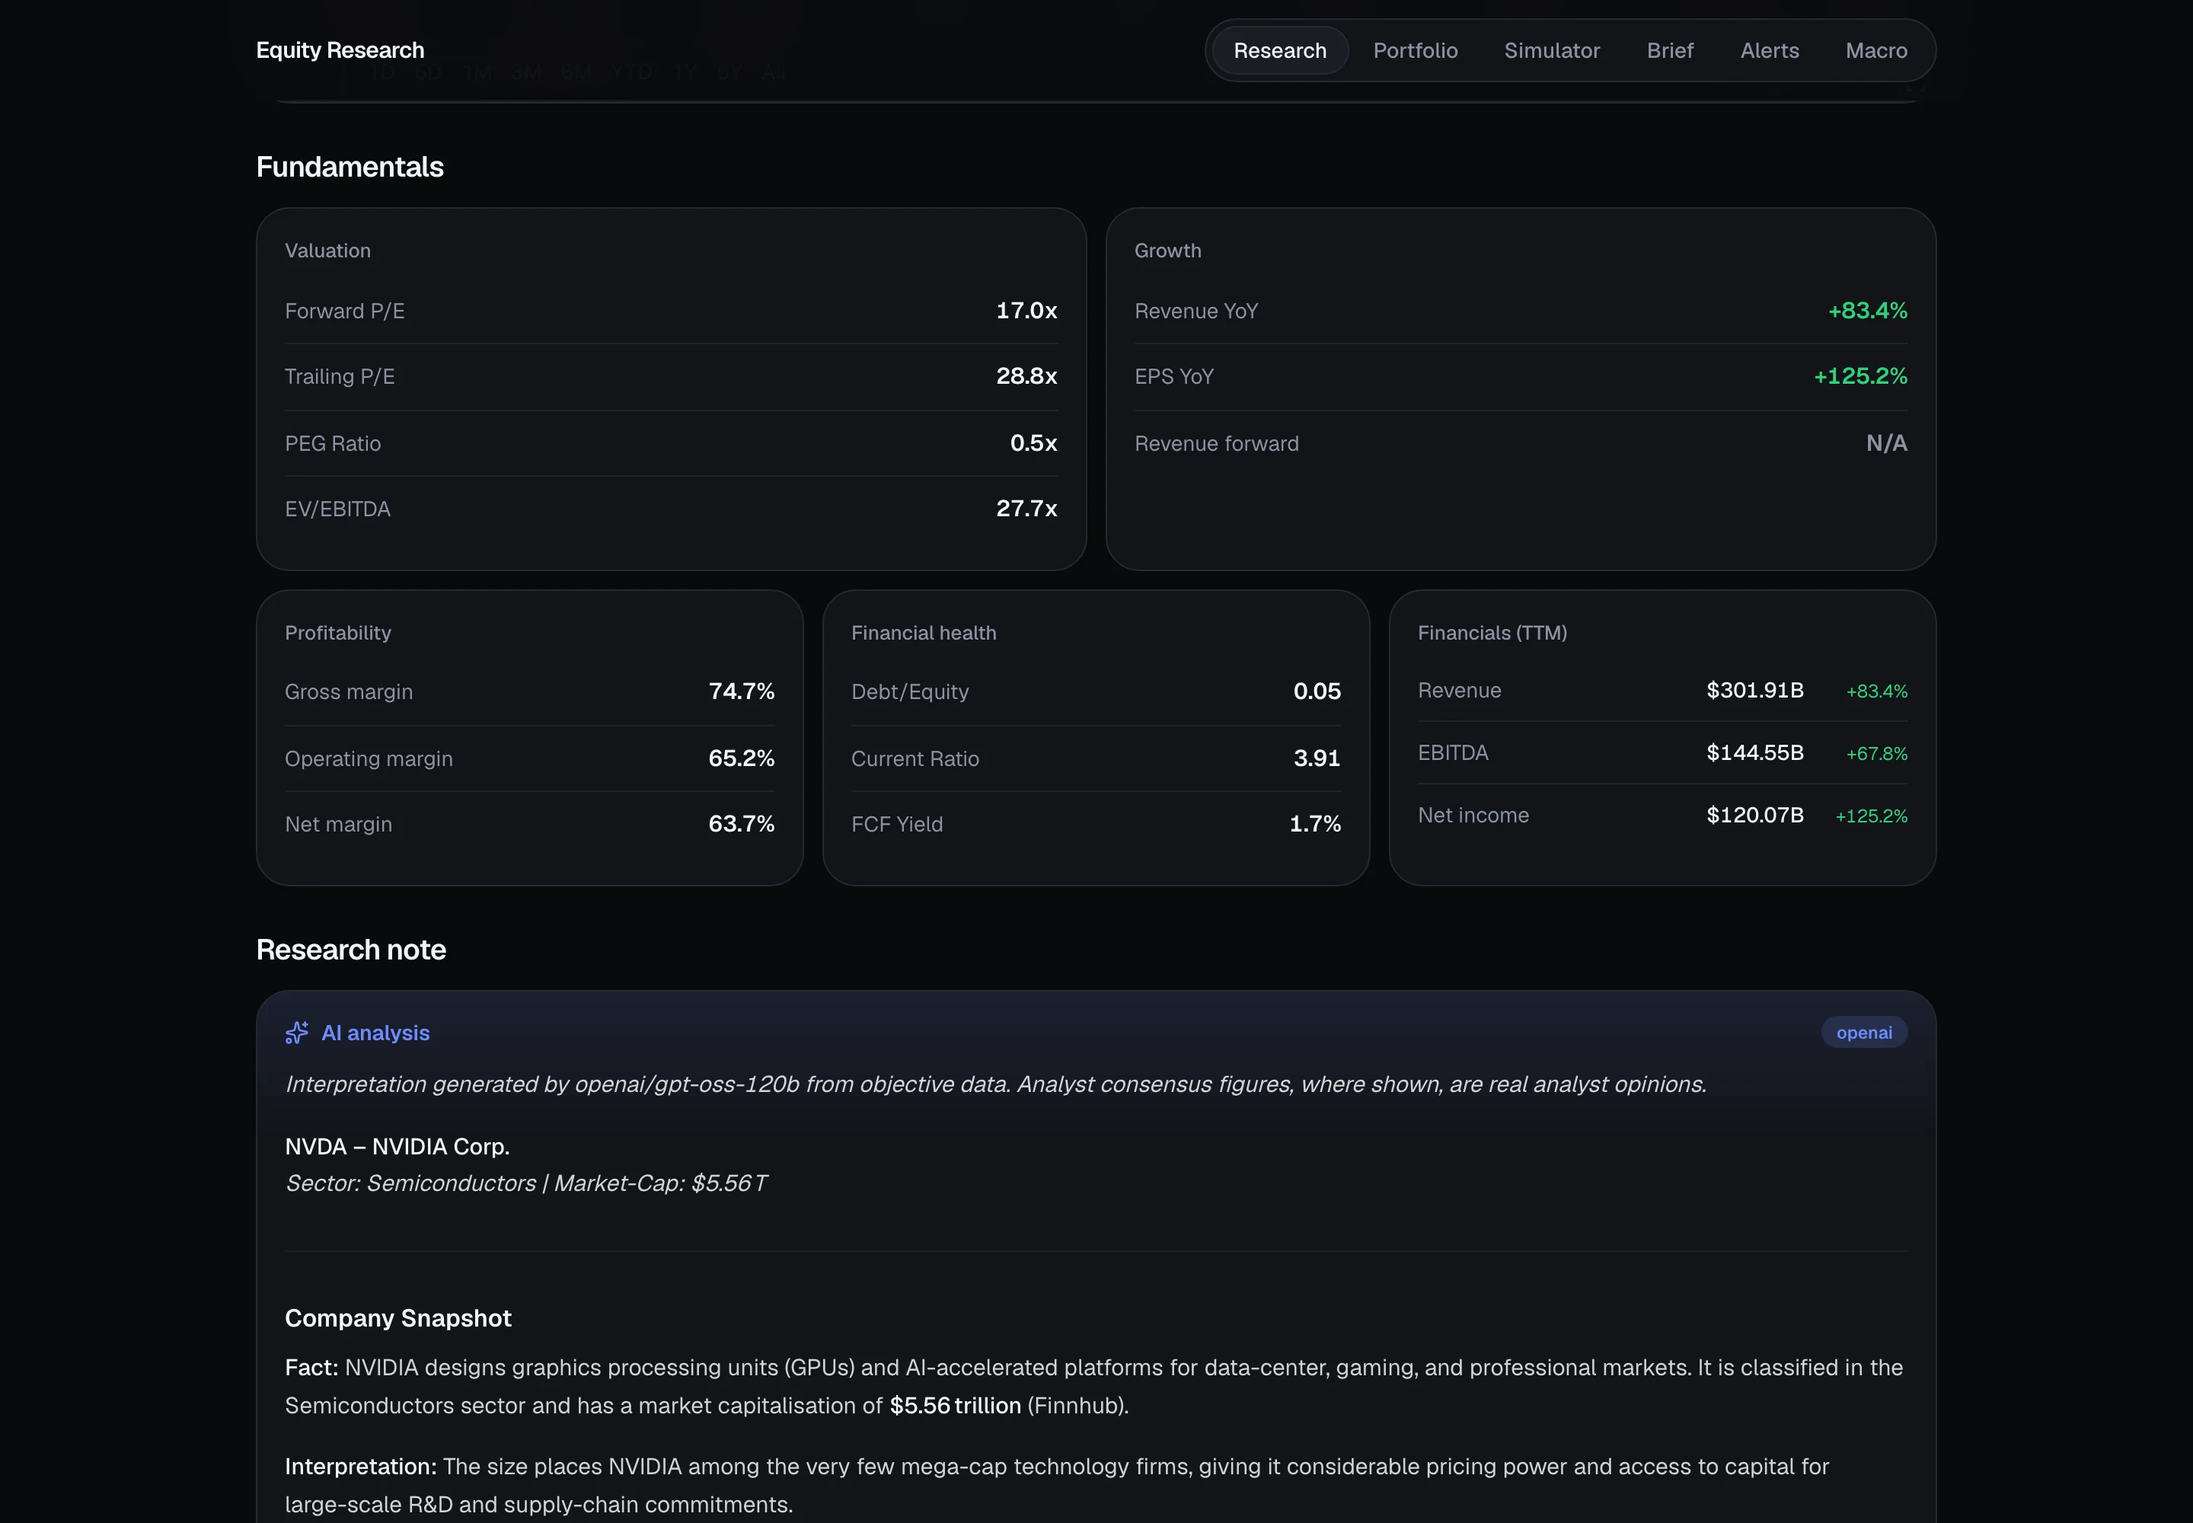
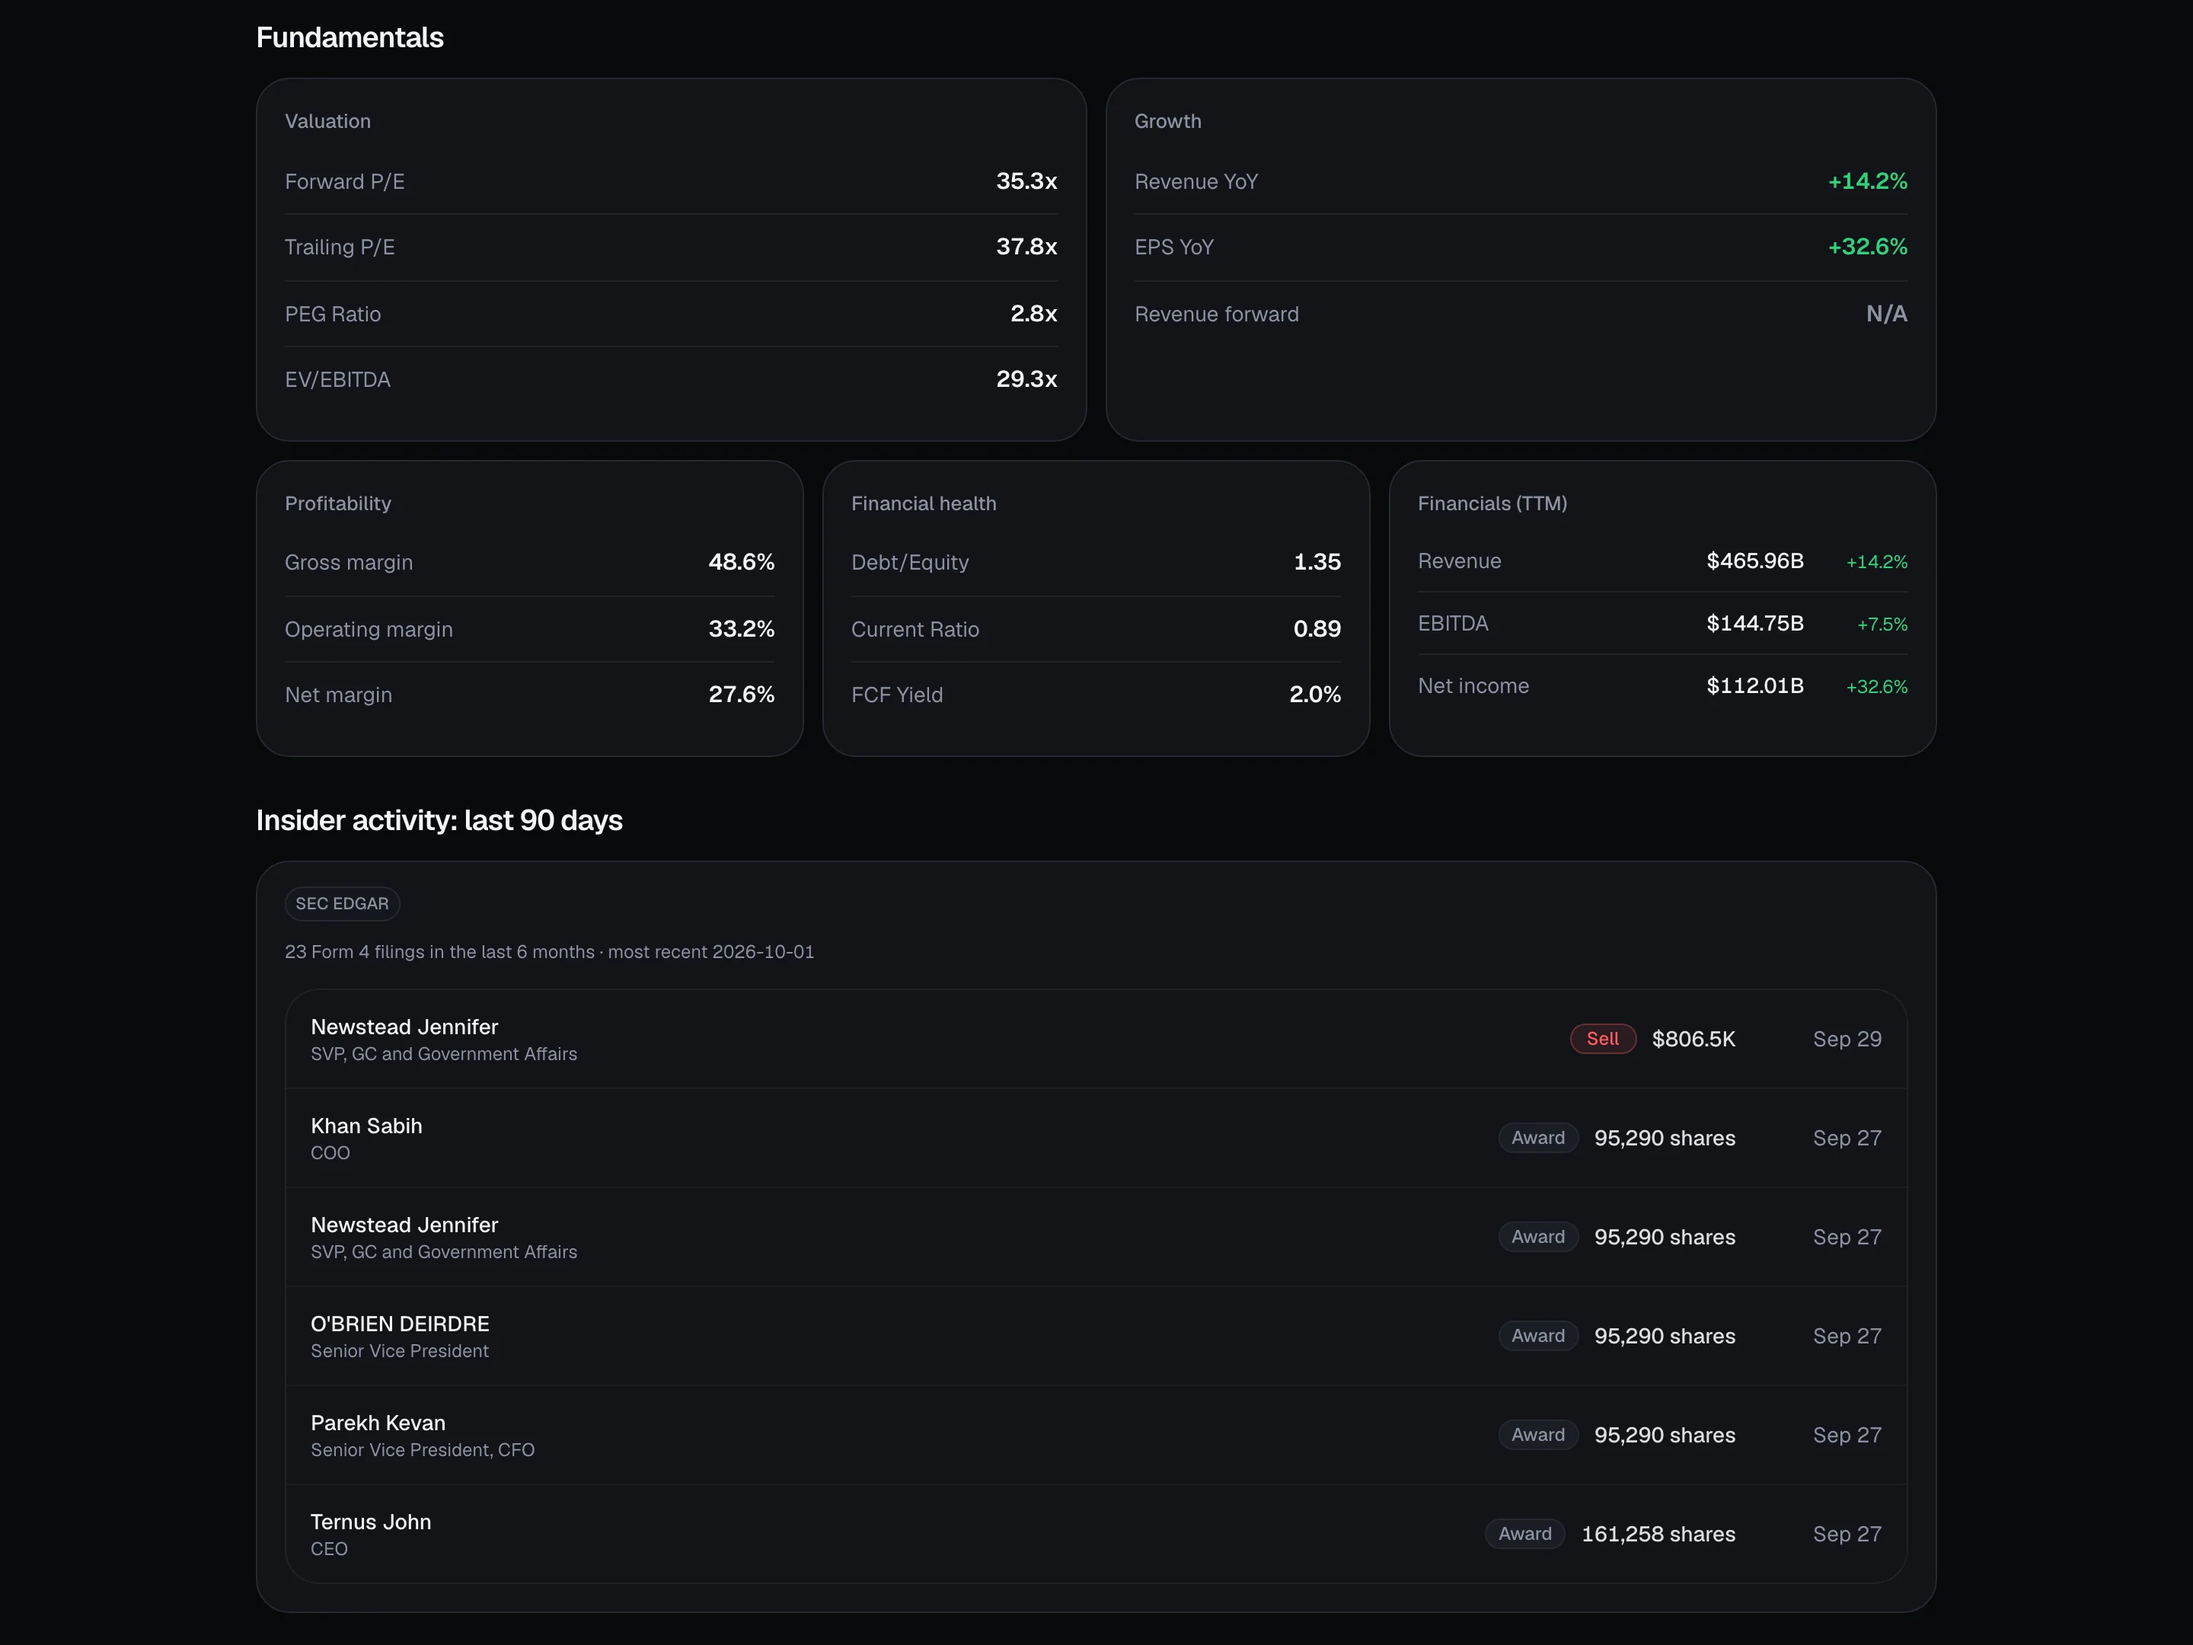
Research screenshots: AAPL with fundamentals and insider activity; README update

diff --git a/equity-research.html b/equity-research.html
@@ -98,7 +98,7 @@
     <h1 class="rise" style="--i:1">An equity research tool I built for <span>my own investing.</span></h1>
     <p class="lede rise" style="--i:2">I wanted proper research on the stocks I hold without paying for a terminal, so I built it on free, official data: SEC filings, FRED and reported financials.</p>
     <div class="term" aria-hidden="true">
-      <span style="animation-delay:.05s">$ research NVDA</span>
+      <span style="animation-delay:.05s">$ research AAPL</span>
       <span style="animation-delay:.42s"><b>prices</b> yfinance</span>
       <span style="animation-delay:.66s"><b>fundamentals</b> Finnhub</span>
       <span style="animation-delay:.9s"><b>filings</b> SEC&nbsp;EDGAR <i>✓</i></span>
@@ -111,7 +111,7 @@
     </div>
     <figure class="frame frame--clip rise" style="--i:4">
       <div class="frame__bar"><span class="frame__dots"><i></i><i></i><i></i></span><span class="frame__url">equity-research-frontend-lilac.vercel.app · Research report</span></div>
-      <div class="frame__body"><img src="img/shot-research.webp" width="2880" height="2000" alt="Research report: price, 1-year change, 52-week range and fundamentals cards" decoding="async"></div>
+      <div class="frame__body"><img src="img/shot-research.webp" width="2880" height="2000" alt="Research report for AAPL: price, 1-year change, 52-week range and chart" decoding="async"></div>
     </figure>
   </section>
 
@@ -127,9 +127,9 @@
         <li>Earnings guidance pulled from the 8-K. The legal boilerplate is trimmed first, so the forward outlook survives the token budget</li>
       </ul>
     </div>
-    <figure class="frame frame--clip rise" style="--i:1">
-      <div class="frame__bar"><span class="frame__dots"><i></i><i></i><i></i></span><span class="frame__url">…/?ticker=NVDA · fundamentals</span></div>
-      <div class="frame__body"><img src="img/shot-research-cards.webp" width="2880" height="2000" alt="Fundamentals cards and the labelled AI research note for NVDA" loading="lazy" decoding="async"></div>
+    <figure class="frame rise" style="--i:1">
+      <div class="frame__bar"><span class="frame__dots"><i></i><i></i><i></i></span><span class="frame__url">…/?ticker=AAPL · fundamentals and insider activity</span></div>
+      <div class="frame__body"><img src="img/shot-research-cards.webp" width="2880" height="2160" alt="Fundamentals cards and SEC Form 4 insider activity for AAPL" loading="lazy" decoding="async"></div>
     </figure>
   </section>
 

diff --git a/README.md b/README.md
@@ -1,9 +1,22 @@
 # personal-website
 
-Static personal site for Ryan Appuhamy — plain `index.html`, no framework, no build step.
+Static personal site for Ryan Appuhamy — plain HTML, CSS and JS, no framework, no build step.
 
-- **Live:** https://ryanappuhamy.vercel.app
-- **Contents:** `index.html`, `CV_Ryan_Appuhamy.pdf`, `thesis.pdf`
+- **Live:** https://ryanappuhamy.vercel.app (moving to ryanappuhamy.com)
+- **Pages:** `index.html` (short bio, projects, contact) and `equity-research.html` (the equity research platform project)
+- **Shared design system:** `css/site.css` and `js/site.js`, matching the platform (equity-research-frontend): colors, Geist fonts, 22px cards, pill nav with sliding indicator (bottom bar on phones), rise animations
+- **Images:** platform screenshots in `img/` as `.webp` (1440 px wide, 2x)
+- **Other files:** `thesis.pdf`, `favicon.svg`
+
+The CV is not published: visitors request it by email.
+
+`js/site.js` also pings the platform backend's `/health` on page load (at most once every 10 minutes per tab), so the free-tier Render server is awake by the time a visitor opens the platform.
+
+## Local preview
+
+```bash
+python3 -m http.server 8080
+```
 
 ## Deploy
 
